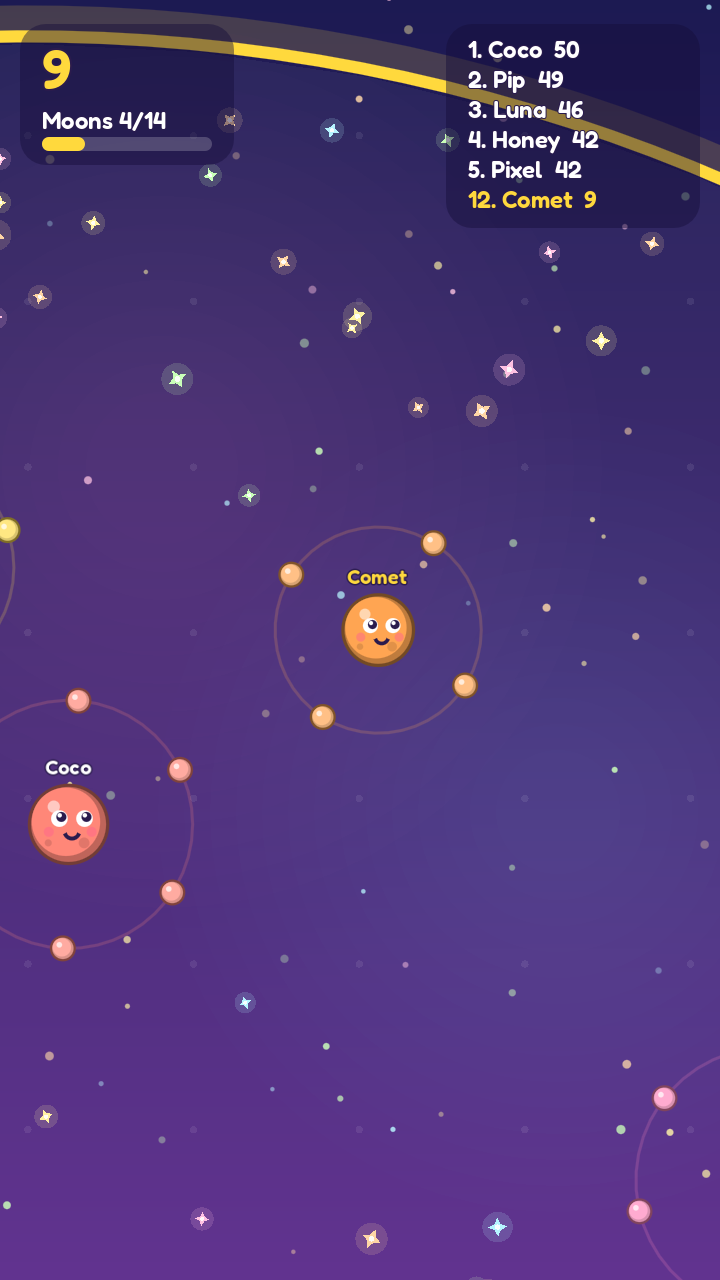
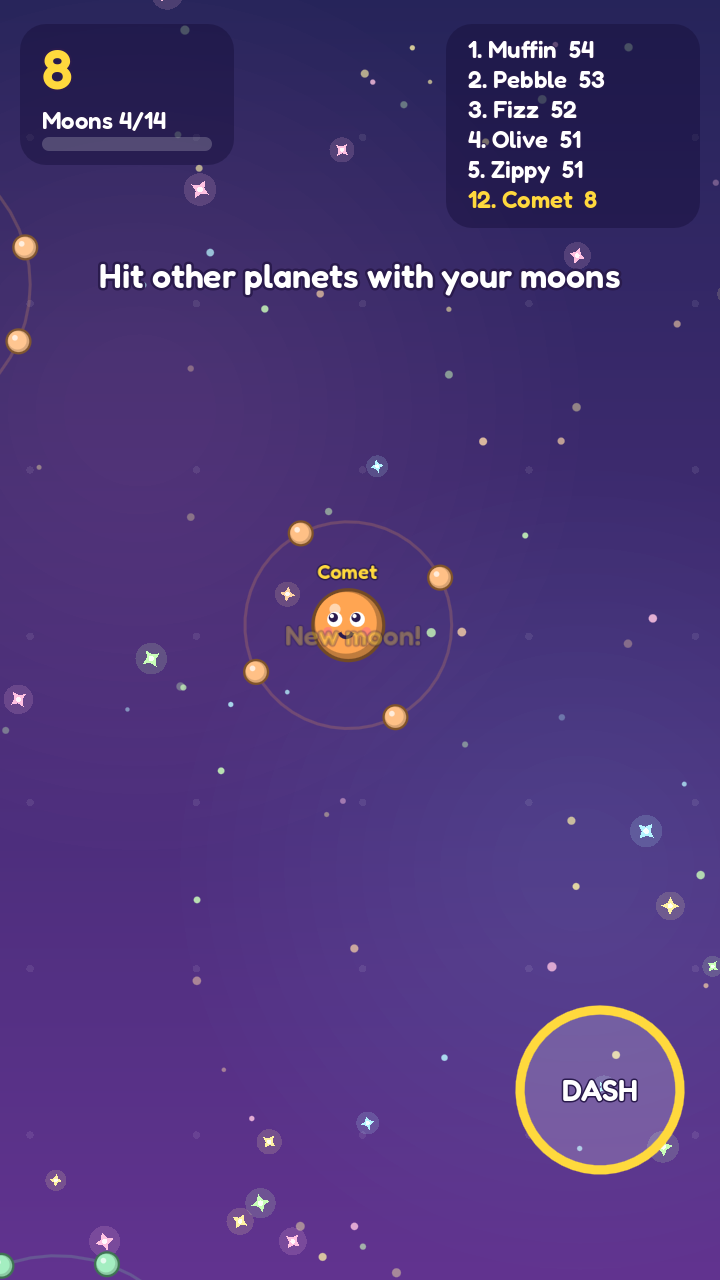
Orbit: one fighting rule, dash, and in-game hints
Moons no longer knock each other loose; the only way to fight is to
touch a planet with a moon. Adds a dash (button or Space) that makes
you unhittable for a moment, bot dashing, first-round hints, a crown
on the leader and a worried face on planets with no moons left.

Claude-Session: https://claude.ai/code/session_01QiiMdwpNFrxB6XkE2BeYUD

diff --git a/orbit-game/README.md b/orbit-game/README.md
@@ -3,8 +3,13 @@
 A small, kid-friendly ".io style" arena game for phones, made with Godot 4.
 
 You are a little planet. Collect stardust to grow moons that circle around you.
-Your moons bump other planets: each bump knocks one of their moons loose, and a
-planet with no moons left pops. Small planets are faster, big planets are stronger.
+There is one rule for fighting: **touch another planet with one of your moons and
+it loses a moon. A planet with no moons left pops on the next hit.** So moons are
+both your lives and your weapons. Small planets are faster, big planets are stronger.
+
+**Dash** (button bottom right, or Space) zooms you forward for a moment. Nothing
+can hit you while you dash, so you can slip past a big planet's moons to reach it.
+Whoever leads the scoreboard wears a crown.
 
 | Menu | Playing | Game over |
 |---|---|---|
@@ -19,7 +24,8 @@ best-score saving. No real ads and no online play yet (see below).
 2. Open Godot, press **Import**, and pick the `project.godot` file in this folder.
 3. Press **F5** (or the Play button, top right).
 
-Controls: hold the mouse button (or a finger) and drag to steer. Arrow keys also work.
+Controls: hold the mouse button (or a finger) and drag to steer; tap DASH to dash.
+On a keyboard, arrow keys steer and Space dashes.
 
 ## Change how it plays
 
@@ -27,6 +33,7 @@ Open `scripts/config.gd`. Every speed, size, colour, name and score value is
 there with a comment. Good ones to try first:
 
 - `BOT_BRAVERY` - how much the computer players hunt (0 = peaceful, 1 = fierce)
+- `DASH_SPEED`, `DASH_TIME`, `DASH_COOLDOWN` - how the dash feels
 - `BOT_COUNT`, `DUST_COUNT`, `ARENA_RADIUS` - how busy the arena is
 - `SKINS` - the planet colours shown on the menu
 - `NAMES` - names used by bots and the "New name" button
